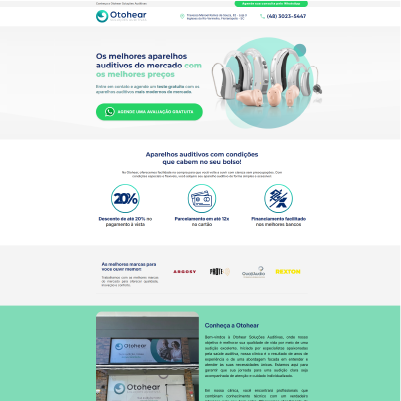
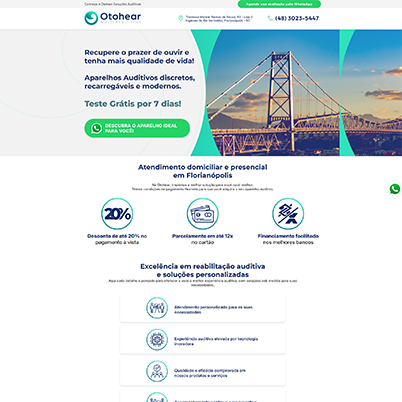
Adicionando cases

diff --git a/src/components/portfolio/CodePortfolio.jsx b/src/components/portfolio/CodePortfolio.jsx
@@ -6,12 +6,15 @@ import { useTranslation } from 'react-i18next';
 import PreviousButton from '../../assets/portfolio/previous.svg';
 import NextButton from '../../assets/portfolio/next.svg';
 
+import OtohearNewSite from '../../assets/portfolio/code/otohear_new_site.webp';
 import OtohearLp from '../../assets/portfolio/code/otohear_lp.webp';
 import VOPI from '../../assets/portfolio/code/vopi.webp';
 import OtohearSite from '../../assets/portfolio/code/otohear_site.webp';
 import System from '../../assets/portfolio/code/system.webp';
 import Afavorita from '../../assets/portfolio/code/lp_favorita.webp';
 import Pokedash from '../../assets/portfolio/code/pokedash.webp';
+import WillLp from '../../assets/portfolio/code/willian_lp.webp';
+import NahaLp from '../../assets/portfolio/code/naha_lp.webp';
 
 function CodePortfolio() {
   const [emblaRef, emblaApi] = useEmblaCarousel({ loop: false, slidesToScroll: 1 }); 
@@ -25,16 +28,55 @@ function CodePortfolio() {
       <div className="embla__viewport" ref={emblaRef}>
         <div className="embla__container">
           <div className="embla__slide">
+            <img src={NahaLp} alt={t('portfolio.code.case9.title')} />
+            <div className="overlay">
+            <h4 className="overlay__title">{t('portfolio.code.case9.title')}</h4>
+            <p className="overlay__description">{t('portfolio.code.case7.description')}</p>
+              <a href="https://nahatattoo.com.br/" target="_blank" className="overlay__caseBtn">{t('portfolio.buttonCases')}</a>
+            </div>
+            <div className="mobile-info">
+              <h4 className="mobile-info__title">{t('portfolio.code.case9.title')}</h4>
+              <p className="mobile-info__description">{t('portfolio.code.case7.description')}</p>
+              <a href="https://nahatattoo.com.br/" target="_blank" className="btn">{t('portfolio.buttonCases')}</a>
+            </div>
+          </div>
+          <div className="embla__slide">
+            <img src={OtohearNewSite} alt={t('portfolio.code.case7.title')} />
+            <div className="overlay">
+            <h4 className="overlay__title">{t('portfolio.code.case7.title')}</h4>
+            <p className="overlay__description">{t('portfolio.code.case7.description')}</p>
+              <a href="https://otohear.com.br/" target="_blank" className="overlay__caseBtn">{t('portfolio.buttonCases')}</a>
+            </div>
+            <div className="mobile-info">
+              <h4 className="mobile-info__title">{t('portfolio.code.case7.title')}</h4>
+              <p className="mobile-info__description">{t('portfolio.code.case7.description')}</p>
+              <a href="https://otohear.com.br/" target="_blank" className="btn">{t('portfolio.buttonCases')}</a>
+            </div>
+          </div>
+          <div className="embla__slide">
+            <img src={WillLp} alt={t('portfolio.code.case8.title')} />
+            <div className="overlay">
+            <h4 className="overlay__title">{t('portfolio.code.case8.title')}</h4>
+            <p className="overlay__description">{t('portfolio.code.case8.description')}</p>
+              <a href="https://willcarmopersonal.com.br/" target="_blank" className="overlay__caseBtn">{t('portfolio.buttonCases')}</a>
+            </div>
+            <div className="mobile-info">
+              <h4 className="mobile-info__title">{t('portfolio.code.case8.title')}</h4>
+              <p className="mobile-info__description">{t('portfolio.code.case8.description')}</p>
+              <a href="https://willcarmopersonal.com.br/" target="_blank" className="btn">{t('portfolio.buttonCases')}</a>
+            </div>
+          </div>
+          <div className="embla__slide">
             <img src={OtohearLp} alt={t('portfolio.code.case1.title')} />
             <div className="overlay">
             <h4 className="overlay__title">{t('portfolio.code.case1.title')}</h4>
             <p className="overlay__description">{t('portfolio.code.case1.description')}</p>
-              <a href="#" className="overlay__caseBtn">{t('portfolio.buttonCases')}</a>
+              <a href="https://otohear.com.br/aparelhos-auditivos" target="_blank" className="overlay__caseBtn">{t('portfolio.buttonCases')}</a>
             </div>
             <div className="mobile-info">
               <h4 className="mobile-info__title">{t('portfolio.code.case1.title')}</h4>
               <p className="mobile-info__description">{t('portfolio.code.case1.description')}</p>
-              <a href="#" className="btn">{t('portfolio.buttonCases')}</a>
+              <a href="https://otohear.com.br/aparelhos-auditivos" target="_blank" className="btn">{t('portfolio.buttonCases')}</a>
             </div>
           </div>
           <div className="embla__slide">

diff --git a/src/components/portfolio/BrandingPortfolio.jsx b/src/components/portfolio/BrandingPortfolio.jsx
@@ -16,6 +16,7 @@ import Divinas from '../../assets/portfolio/branding/divinas.webp';
 import Stur from '../../assets/portfolio/branding/stur.webp';
 import Lcf from '../../assets/portfolio/branding/lcf.webp';
 import Mercosul from '../../assets/portfolio/branding/mercosul.webp';
+import Tres from '../../assets/portfolio/branding/tres.webp';
 
 import PreviousButton from '../../assets/portfolio/previous.svg';
 import NextButton from '../../assets/portfolio/next.svg';
@@ -44,6 +45,19 @@ function BrandingPortfolio() {
                 </div>
               </div>
               <div className="embla__slide">
+                <img src={VerdeOliva} alt={t('portfolio.branding.case4.title')} />
+                <div className="overlay">
+                  <h4 className="overlay__title">{t('portfolio.branding.case4.title')}</h4>
+                  <p className="overlay__description">{t('portfolio.branding.case4.description')}</p>
+                  <a href="https://www.behance.net/gallery/157050405/Manual-de-Marca-Verde-Oliva" target="_blank" className="overlay__caseBtn">{t('portfolio.buttonCases')}</a>
+                </div>
+                <div className="mobile-info">
+                  <h4 className="mobile-info__title">{t('portfolio.branding.case4.title')}</h4>
+                  <p className="mobile-info__description">{t('portfolio.branding.case4.description')}</p>
+                  <a href="https://www.behance.net/gallery/157050405/Manual-de-Marca-Verde-Oliva" target="_blank" className="btn">{t('portfolio.buttonCases')}</a>
+                </div>
+              </div>
+              <div className="embla__slide">
                 <img src={Wrd} alt={t('portfolio.branding.case2.title')} />
                 <div className="overlay">
                   <h4 className="overlay__title">{t('portfolio.branding.case2.title')}</h4>
@@ -57,6 +71,19 @@ function BrandingPortfolio() {
                 </div>
               </div>
               <div className="embla__slide">
+                <img src={Tres} alt={t('portfolio.branding.case14.title')} />
+                <div className="overlay">
+                  <h4 className="overlay__title">{t('portfolio.branding.case14.title')}</h4>
+                  <p className="overlay__description">{t('portfolio.branding.case14.description')}</p>
+                  <a href="https://www.behance.net/gallery/245802253/Tres-Bussiness-Tech" target="_blank" className="overlay__caseBtn">{t('portfolio.buttonCases')}</a>
+                </div>
+                <div className="mobile-info">
+                  <h4 className="mobile-info__title">{t('portfolio.branding.case14.title')}</h4>
+                  <p className="mobile-info__description">{t('portfolio.branding.case14.description')}</p>
+                  <a href="https://www.behance.net/gallery/245802253/Tres-Bussiness-Tech" target="_blank" className="btn">{t('portfolio.buttonCases')}</a>
+                </div>
+              </div>
+              <div className="embla__slide">
                 <img src={Bricoffee} alt={t('portfolio.branding.case3.title')} />
                 <div className="overlay">
                   <h4 className="overlay__title">{t('portfolio.branding.case3.title')}</h4>
@@ -67,19 +94,6 @@ function BrandingPortfolio() {
                   <h4 className="mobile-info__title">{t('portfolio.branding.case3.title')}</h4>
                   <p className="mobile-info__description">{t('portfolio.branding.case3.description')}</p>
                   <a href="https://www.behance.net/gallery/134365233/Identidade-Visual-Bricoffee" target="_blank" className="btn">{t('portfolio.buttonCases')}</a>
-                </div>
-              </div>
-              <div className="embla__slide">
-                <img src={VerdeOliva} alt={t('portfolio.branding.case4.title')} />
-                <div className="overlay">
-                  <h4 className="overlay__title">{t('portfolio.branding.case4.title')}</h4>
-                  <p className="overlay__description">{t('portfolio.branding.case4.description')}</p>
-                  <a href="https://www.behance.net/gallery/157050405/Manual-de-Marca-Verde-Oliva" target="_blank" className="overlay__caseBtn">{t('portfolio.buttonCases')}</a>
-                </div>
-                <div className="mobile-info">
-                  <h4 className="mobile-info__title">{t('portfolio.branding.case4.title')}</h4>
-                  <p className="mobile-info__description">{t('portfolio.branding.case4.description')}</p>
-                  <a href="https://www.behance.net/gallery/157050405/Manual-de-Marca-Verde-Oliva" target="_blank" className="btn">{t('portfolio.buttonCases')}</a>
                 </div>
               </div>
               <div className="embla__slide">

diff --git a/index.html b/index.html
@@ -3,7 +3,7 @@
 
 <head>
   <meta charset="UTF-8" />
-  <link rel="icon" type="image/svg+xml" href="/favicon.svg" />
+  <link rel="icon" type="image/png" href="/favicon.png" />
   <meta name="viewport" content="width=device-width, initial-scale=1.0">
   <title>João Paulo Raposo | Dev Fullstack</title>
   <meta name="description" content="Portfólio oficial de João Paulo Raposo. Desenvolvedor Fullstack especializado em aplicações modernas, interfaces responsivas e soluções personalizadas." />
@@ -31,9 +31,31 @@
   <link rel="preconnect" href="https://fonts.gstatic.com" crossorigin>
   <link href="https://fonts.googleapis.com/css2?family=Bebas+Neue&family=League+Spartan:wght@100..900&display=swap"
     rel="stylesheet">
+
+  <!-- Google Tag Manager -->
+  <script>(function(w,d,s,l,i){w[l]=w[l]||[];w[l].push({'gtm.start':
+  new Date().getTime(),event:'gtm.js'});var f=d.getElementsByTagName(s)[0],
+  j=d.createElement(s),dl=l!='dataLayer'?'&l='+l:'';j.async=true;j.src=
+  'https://www.googletagmanager.com/gtm.js?id='+i+dl;f.parentNode.insertBefore(j,f);
+  })(window,document,'script','dataLayer','GTM-N5WCM9W4');</script>
+  <!-- End Google Tag Manager -->
+
+  <!-- Google tag (gtag.js) -->
+  <script async src="https://www.googletagmanager.com/gtag/js?id=G-JWGFL2JJLC"></script>
+  <script>
+    window.dataLayer = window.dataLayer || [];
+    function gtag(){dataLayer.push(arguments);}
+    gtag('js', new Date());
+
+    gtag('config', 'G-JWGFL2JJLC');
+  </script>
 </head>
 
 <body>
+  <!-- Google Tag Manager (noscript) -->
+  <noscript><iframe src="https://www.googletagmanager.com/ns.html?id=GTM-N5WCM9W4"
+  height="0" width="0" style="display:none;visibility:hidden"></iframe></noscript>
+  <!-- End Google Tag Manager (noscript) -->
   <div id="root"></div>
   <script type="module" src="/src/main.jsx"></script>
 </body>

diff --git a/src/pages/Portfolio.jsx b/src/pages/Portfolio.jsx
@@ -31,11 +31,12 @@ const Portfolio = () => {
             style={{ transformOrigin: 'left' }}
             viewport={{ once: true, amount: 0.2 }}
           />
-          <h3 className="portfolio__content-subtitle animate" dangerouslySetInnerHTML={{ __html: t('portfolio.subtitle1') }} />
+          <h3 className="portfolio__content-subtitle animate">{t('portfolio.subtitle1')}</h3>
           <CodePortfolio />
+          <h3 className="portfolio__content-subtitle animate">{t('portfolio.subtitle3')}</h3>
           <div className="see-more end animate">
             <p>{t('portfolio.see-more1')}</p>
-            <a href="https://github.com/raposojoaopaulo" target="_blank" rel="noopener noreferrer" className="see-more__btn">Acessar <span><FaGithub /></span></a>
+            <a href="https://github.com/raposojoaopaulo" target="_blank" rel="noopener noreferrer" className="see-more__btn">{ t('portfolio.externalButton') } <span><FaGithub /></span></a>
           </div>
           <motion.hr
             initial={{ scaleX: 0 }}
@@ -48,7 +49,7 @@ const Portfolio = () => {
           <BrandingPortfolio />
           <div className="see-more animate">
           <p>{t('portfolio.see-more2')}</p>
-            <a href="https://behance.net/raposojoaop" target="_blank" rel="noopener noreferrer" className="see-more__btn">Acessar <span><FaBehance /></span></a>
+            <a href="https://behance.net/raposojoaop" target="_blank" rel="noopener noreferrer" className="see-more__btn">{ t('portfolio.externalButton') } <span><FaBehance /></span></a>
           </div>
           <motion.hr
             initial={{ scaleX: 0 }}

diff --git a/src/components/Header.jsx b/src/components/Header.jsx
@@ -2,7 +2,7 @@ import React, { useState } from 'react';
 import '../styles/components/_header.scss';
 import menuIcon from '../assets/header/menu_icon_open.svg';
 import closeIcon from '../assets/header/menu_icon_close.svg';
-import { FaInstagram, FaGithub, FaLinkedinIn, FaBehance } from 'react-icons/fa';
+import { FaInstagram, FaGithub, FaLinkedinIn, FaBehance, FaFileAlt } from 'react-icons/fa';
 import { useTranslation } from 'react-i18next';
 
 export default function Header({ theme = 'light' }) {
@@ -61,6 +61,7 @@ export default function Header({ theme = 'light' }) {
         </nav>
 
         <div className="header__social">
+          <a href="https://raposojoaopaulo.com/pdf/CV_JoaoPauloRaposo.pdf" target="_blank" rel="noopener noreferrer"><FaFileAlt /></a>
           <a href="https://www.linkedin.com/in/raposojoaopaulo/" target="_blank" rel="noopener noreferrer"><FaLinkedinIn /></a>
           <a href="https://github.com/raposojoaopaulo" target="_blank" rel="noopener noreferrer"><FaGithub /></a>
           <a href="https://behance.net/raposojoaop" target="_blank" rel="noopener noreferrer"><FaBehance /></a>

diff --git a/src/styles/pages/_Portfolio.scss b/src/styles/pages/_Portfolio.scss
@@ -79,7 +79,7 @@
       align-items: center;
       font-family: 'Bebas Neue', sans-serif;
       font-size: 6vh;
-      color: #cecece;
+      color: #fff;
       display: flex;
       width: 100%;
       justify-content: start;

diff --git a/src/styles/components/_header.scss b/src/styles/components/_header.scss
@@ -188,6 +188,10 @@
 
         li {
           margin: 1.5rem 0;
+
+          @media (max-width: 1500px) {
+            margin: 0;
+          }
         }
 
         a {
